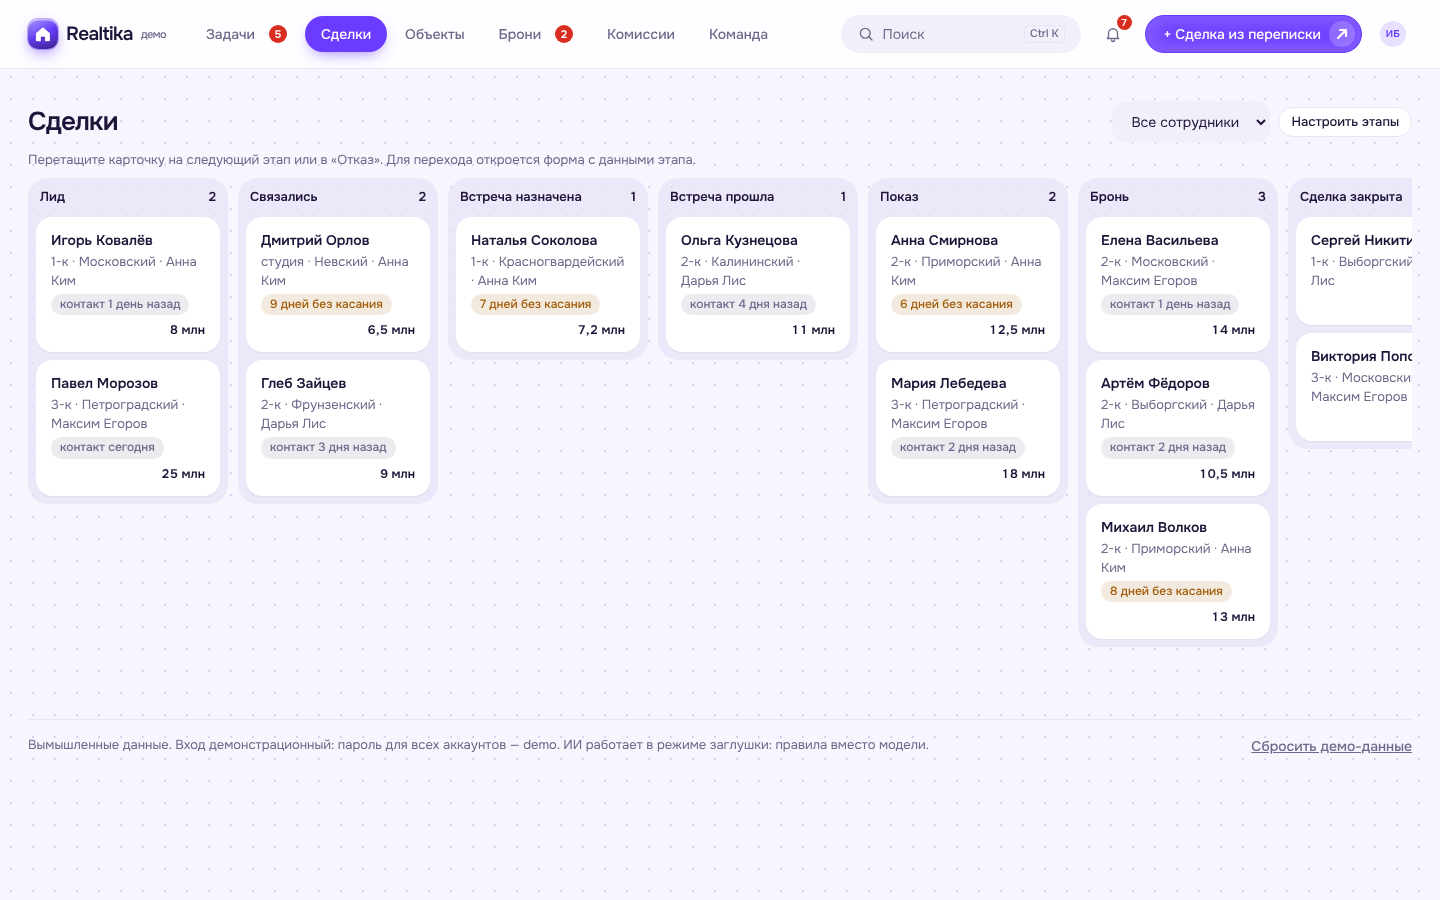
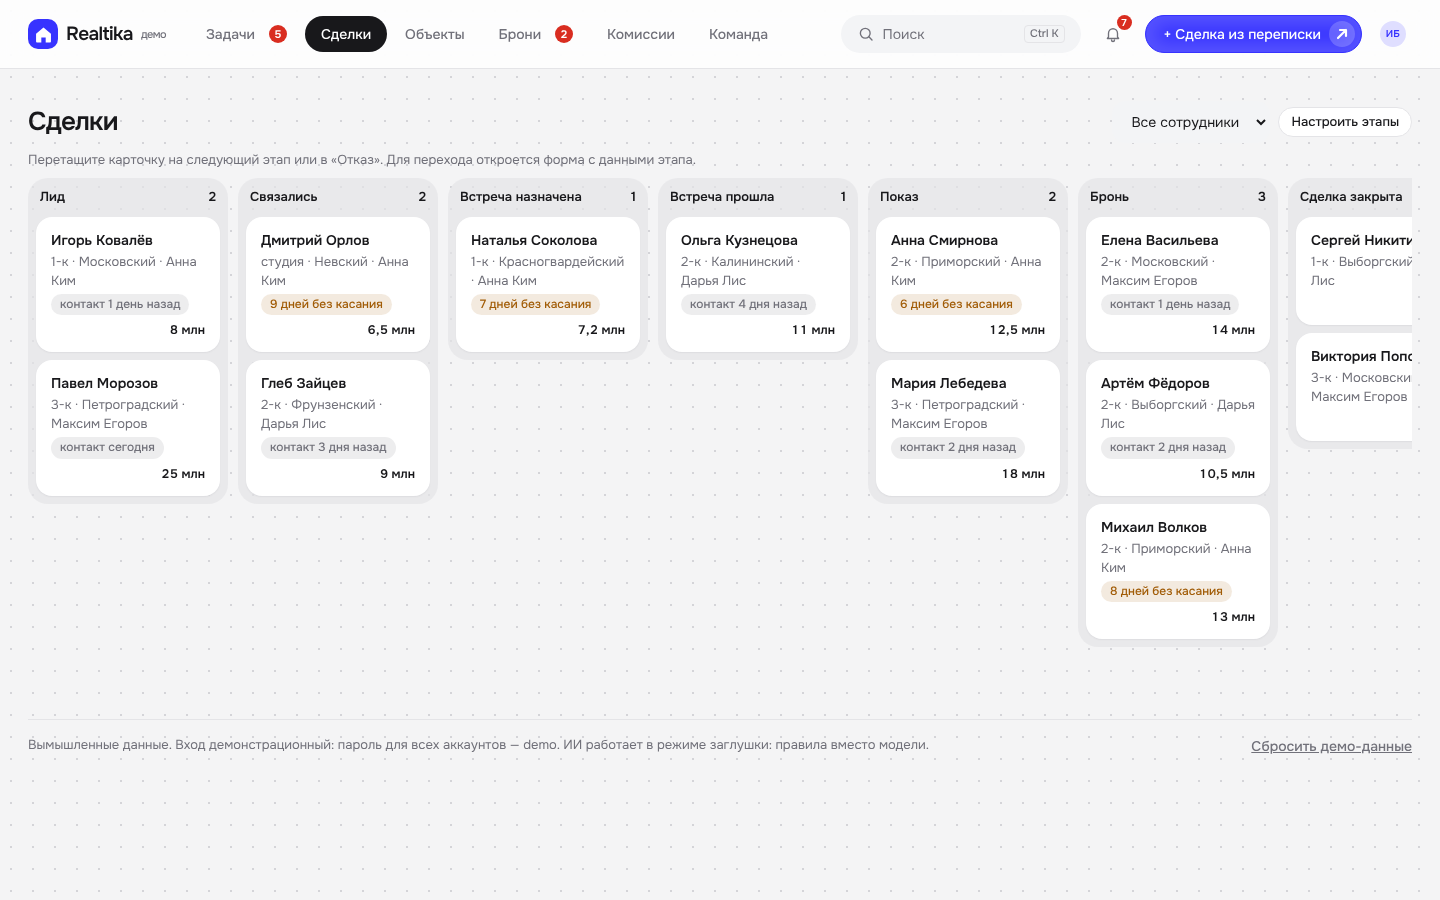
Revert "design: violet, white and orange palette; drop the black accents"
Back to the indigo/orange look with the black login panel.

Claude-Session: https://claude.ai/code/session_01WGyjb6ifj2QD7Cnku9bK9v

diff --git a/app/index.html b/app/index.html
@@ -7,13 +7,13 @@
 <style>
 /* Layout в духе каталогов новостроек: белая шапка с разделами сверху (на телефоне вкладки снизу), светло-серый фон,
    контент на белых скруглённых плашках, крупные карточки объектов с фото. Сделка выезжает справа. */
-/* Цветовые схемы. Базовая — «Тренд»: фиолетовый, белый и оранжевый. Светло-лавандовый фон в точку, белые плашки,
-   фиолетовый для главного действия, оранжевый как второй акцент. Остальные включаются атрибутом data-palette на <html> из настроек кабинета. */
+/* Цветовые схемы. Базовая — «Тренд»: нейтральный серый фон в точку, белые плашки, индиго для главного действия,
+   оранжевый как второй акцент. Остальные включаются атрибутом data-palette на <html> из настроек кабинета. */
 :root {
-  --bg: #F7F5FD; --surface: #FFFFFF; --sunken: #F2EFFB; --hover: #E8E3F7; --ink: #1D1438; --muted: #6E688A; --line: #E8E4F4; --dot: #DAD3F0;
-  --accent: #6B3CFF; --accent-ink: #FFFFFF; --accent-d: #B39BFF; --accent-ink-d: #14072F; --hot: #FE4B01;
-  --side-bg: #FFFFFF; --side-ink: #1D1438; --side-muted: #6E688A; --side-hover: #F2EFFB; --side-line: #E8E4F4; --side-field: #F2EFFB;
-  --panel: #6B3CFF;
+  --bg: #F4F4F5; --surface: #FFFFFF; --sunken: #F3F4F6; --hover: #E4E4E7; --ink: #18181B; --muted: #71717A; --line: #E4E4E7; --dot: #D4D4D8;
+  --accent: #3733FF; --accent-ink: #FFFFFF; --accent-d: #8F8CFF; --accent-ink-d: #07063A; --hot: #FE4B01;
+  --side-bg: #FFFFFF; --side-ink: #18181B; --side-muted: #71717A; --side-hover: #F3F4F6; --side-line: #E4E4E7; --side-field: #F3F4F6;
+  --panel: #18181B;
   --ok: #12805C; --warn: #A15C07; --crit: #D92D20;
   --f-display: Onest, system-ui, -apple-system, "Segoe UI", Roboto, sans-serif;
   --f-body: Onest, system-ui, -apple-system, "Segoe UI", Roboto, sans-serif;
@@ -114,9 +114,9 @@ nav.tabs { display: grid; gap: 1px; flex: 1; align-content: start; }
 
 .login { min-height: 100vh; min-height: 100dvh; display: grid; place-items: center; padding-block: 24px; box-sizing: border-box; }
 .login-card { width: min(960px, 100%); display: grid; grid-template-columns: 1fr 1fr; gap: 8px; padding: 8px; box-sizing: border-box; background: var(--surface); border-radius: 32px; box-shadow: 0 24px 48px rgb(16 24 40 / .08); overflow: hidden; }
-.login-brand { background: radial-gradient(70% 55% at 100% 100%, rgb(254 75 1 / .45), transparent 70%), radial-gradient(60% 50% at 0% 0%, rgb(255 255 255 / .18), transparent 70%), var(--panel); color: #fff; border-radius: 26px; padding: 36px; display: grid; gap: 18px; align-content: space-between; }
+.login-brand { background: var(--panel); color: #F4F3F1; border-radius: 26px; padding: 36px; display: grid; gap: 18px; align-content: space-between; }
 .login-brand .logo { font-size: 24px; gap: 10px; }
-.login-brand .mark { width: 44px; height: 44px; border-radius: 14px; color: var(--panel); background: linear-gradient(150deg, #fff, #E9E2FF); box-shadow: inset 0 -3px 6px rgb(60 20 160 / .18), 0 8px 20px -6px rgb(30 10 90 / .5); }
+.login-brand .mark { width: 44px; height: 44px; border-radius: 14px; }
 .login-brand .lead { font: 500 30px/1.1 var(--f-display); letter-spacing: -.03em; margin: 0; max-width: 16ch; }
 .login-brand .fine { font-size: 12px; opacity: .8; margin: 0; }
 .login-form { padding: 40px; display: grid; gap: 14px; align-content: start; }
@@ -347,7 +347,7 @@ dialog.modal.search { margin-top: 12vh; width: min(580px, calc(100% - 32px)); }
   nav.tabs { order: 1; display: flex; flex: 1; gap: 2px; }
   .tab { padding: 9px 16px; border-radius: 999px; white-space: nowrap; }
   .tab svg { display: none; }
-  .tab[aria-current="page"] { background: var(--accent); color: var(--accent-ink); font-weight: 500; box-shadow: 0 6px 16px -6px color-mix(in srgb, var(--accent) 70%, transparent); }
+  .tab[aria-current="page"] { background: var(--ink); color: var(--surface); font-weight: 500; }
   .tab b { margin-left: 4px; }
   .side-search { order: 2; width: 240px; border: 0; border-radius: 999px; padding: 9px 16px; }
   .side .icon-btn { order: 3; width: 40px; height: 40px; border-radius: 50%; }
